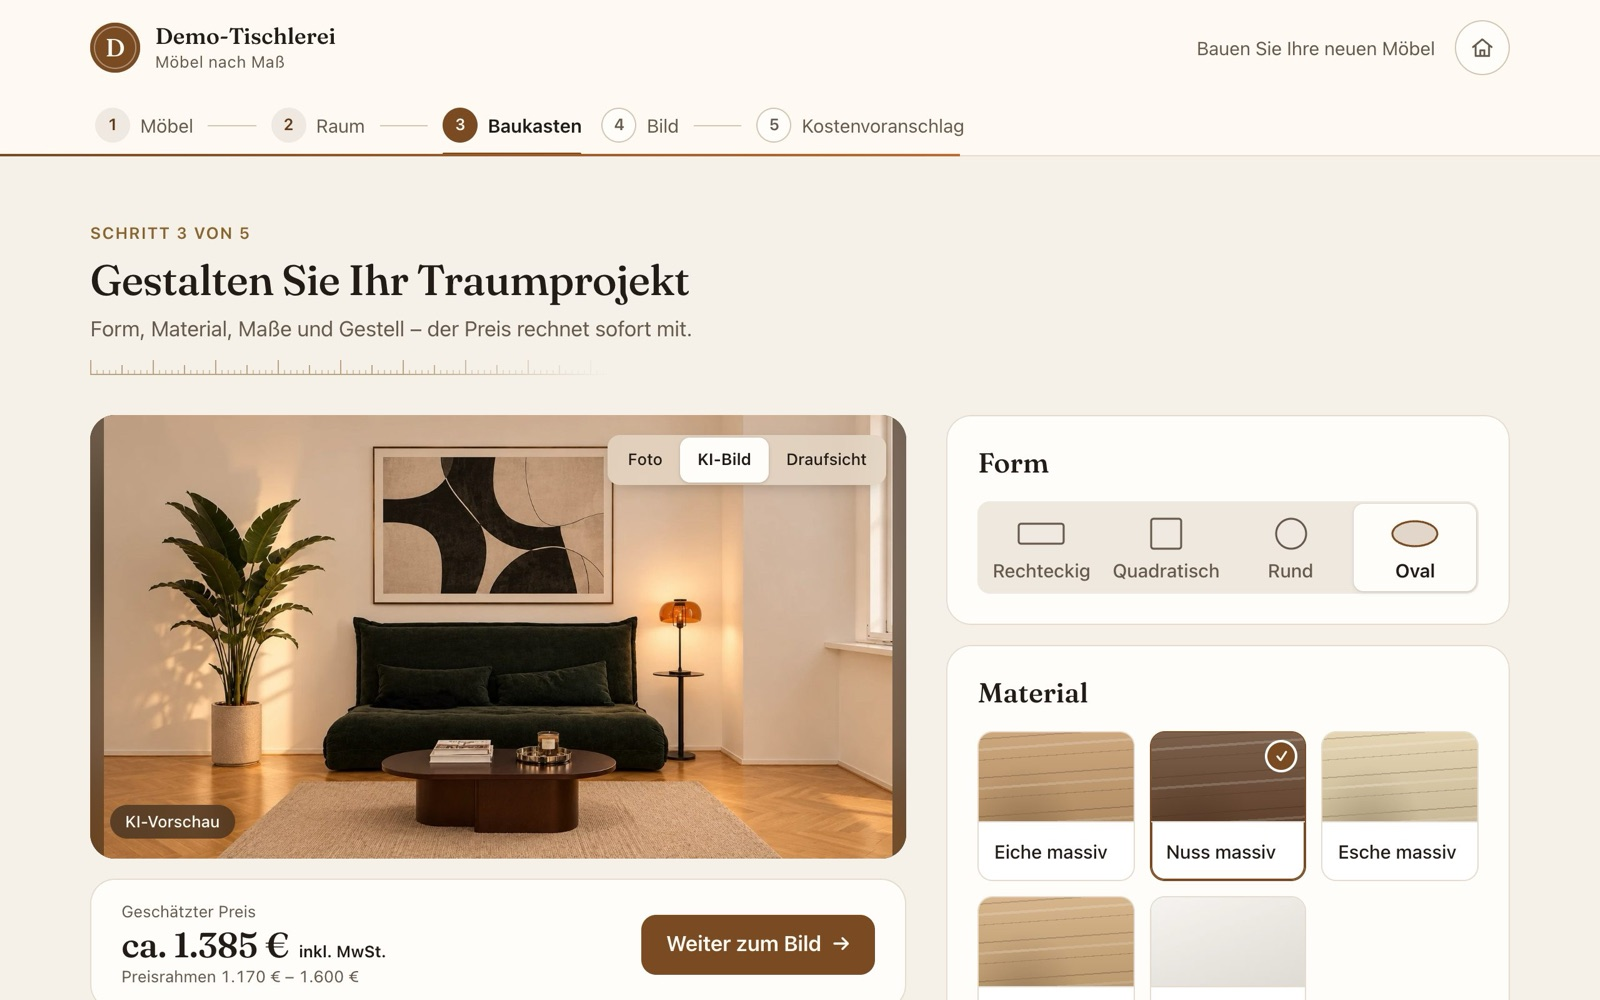
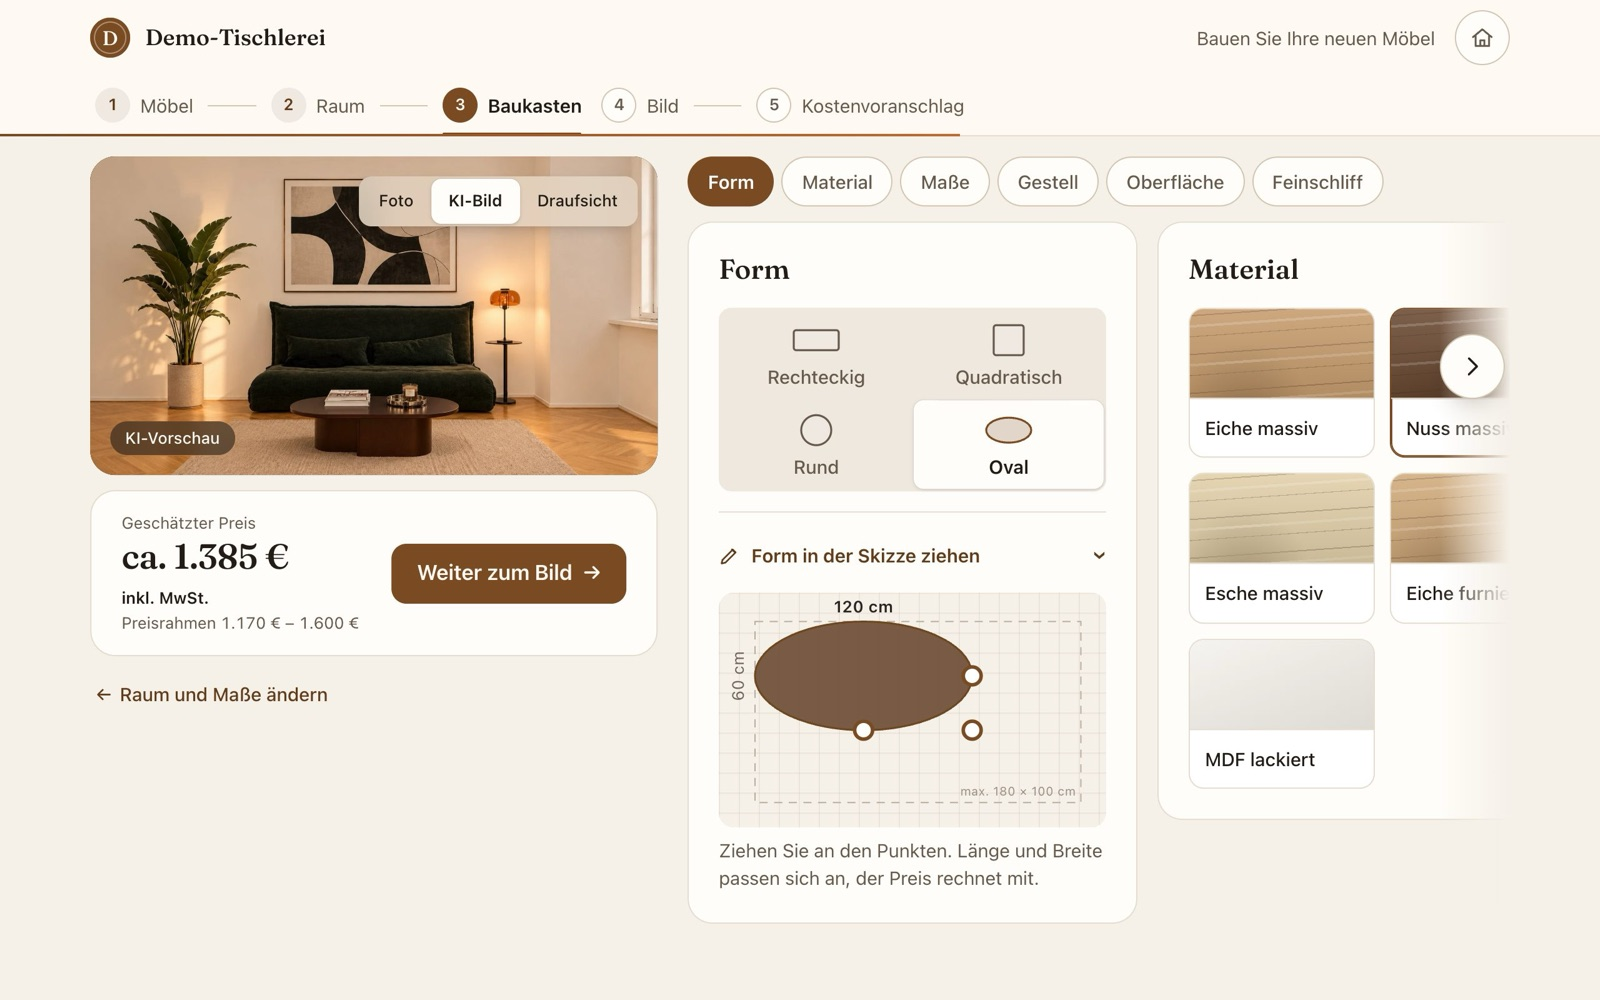
Landingpage: Baukasten-Screenshot mit neuem Layout und Skizze

diff --git a/tischlereien.html b/tischlereien.html
@@ -48,7 +48,7 @@
         <figure class="held-bild">
           <div class="geraet">
             <div class="geraet-leiste" aria-hidden="true"><i></i><i></i><i></i><span>demo-tischlerei · konfigurator</span></div>
-            <img src="assets/landing/schritt-baukasten.jpg" width="1600" height="1000" fetchpriority="high" alt="Baukasten des Konfigurators: KI-Vorschau im Wohnzimmer, Form, Material und geschätzter Preis">
+            <img src="assets/landing/schritt-baukasten.jpg" width="1600" height="1000" fetchpriority="high" alt="Baukasten des Konfigurators: links KI-Vorschau im Wohnzimmer und geschätzter Preis, rechts Form mit Skizze zum Ziehen und Material">
           </div>
           <div class="ki-karte" aria-hidden="true">
             <span class="ki-symbol"><svg viewBox="0 0 24 24" width="22" height="22" fill="currentColor"><path d="M12 2l1.9 5.6L19.5 9.5l-5.6 1.9L12 17l-1.9-5.6L4.5 9.5l5.6-1.9z"/><path d="M19 14l.9 2.6 2.6.9-2.6.9L19 21l-.9-2.6-2.6-.9 2.6-.9z" opacity=".75"/></svg></span>
